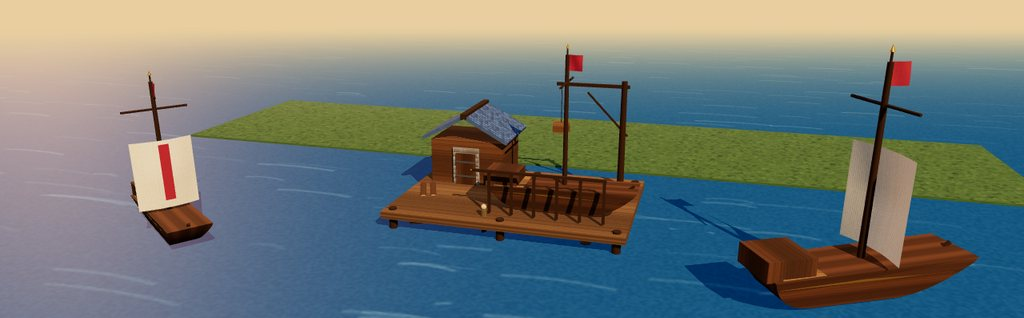
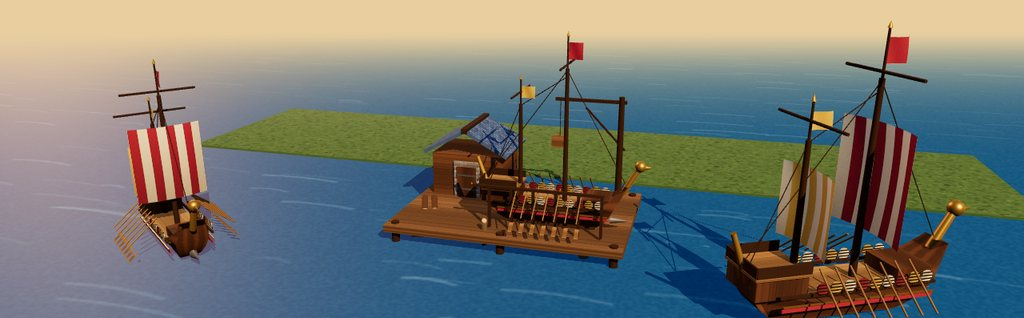
v0.42 fleet: new warship model, fleet and engagement scenes
Claude-Session: https://claude.ai/code/session_01Tp2ALq8jAJ99uCRVGCcdfx

diff --git a/tools/render/buildings.js b/tools/render/buildings.js
@@ -253,17 +253,59 @@ function hull(len, wid, hgt, mat) {
   const p = g.attributes.position; for (let i = 0; i < p.count; i++) { const y = p.getY(i); const k = 0.55 + 0.45 * (y / hgt); p.setZ(i, p.getZ(i) * Math.min(1, k)); }
   g.computeVertexNormals(); const m = new THREE.Mesh(g, mat); m.castShadow = m.receiveShadow = true; return m;
 }
+function hull2(len, wid, mat) {
+  // side profile: raised stern, low waist, high curved bow
+  const sh = new THREE.Shape();
+  sh.moveTo(-len / 2, 2.5); sh.quadraticCurveTo(-len / 2 + 1.4, 1.2, 0, 1.15); sh.quadraticCurveTo(len / 2 - 1.5, 1.35, len / 2, 3.0);
+  sh.lineTo(len / 2 - 0.35, 3.0); sh.quadraticCurveTo(len / 2 - 0.9, 0.5, len / 2 - 2.2, 0.05); sh.lineTo(-len / 2 + 2.0, 0.05); sh.quadraticCurveTo(-len / 2 + 0.2, 0.6, -len / 2, 2.5);
+  const g = new THREE.ExtrudeGeometry(sh, { depth: wid, bevelEnabled: false, steps: 1 }); g.translate(0, 0, -wid / 2);
+  const p = g.attributes.position; for (let i = 0; i < p.count; i++) { const y = p.getY(i), x = p.getX(i); const k = 0.38 + 0.62 * Math.min(1, y / 1.5); const end = 1 - 0.55 * Math.pow(Math.abs(x) / (len / 2), 3); p.setZ(i, p.getZ(i) * Math.min(1, k) * end); }
+  g.computeVertexNormals(); const m = new THREE.Mesh(g, mat); m.castShadow = m.receiveShadow = true; return m;
+}
 export function sailingShip(sails = true) {
   const g = new THREE.Group();
-  const hl = hull(8.4, 2.6, 1.6, M.wood([2, 1], 0x6b4528, false)); g.add(hl);
-  g.add(box(8.0, 0.14, 2.3, M.wood([2, 1], 0x9a7242, false), 0.2, 1.52, 0));
-  g.add(box(2.2, 0.9, 2.2, M.wood([1, 1], 0x5e3d22), -3.4, 1.55, 0));
-  g.add(box(8.2, 0.12, 0.08, M.gold(), 0.2, 1.2, 1.12), box(8.2, 0.12, 0.08, M.gold(), 0.2, 1.2, -1.12));
-  const mast = cyl(0.12, 0.16, 8.5, M.woodDark(), 0.6, 1.5, 0, 8); g.add(mast);
-  g.add(cyl(0.07, 0.07, 3.8, M.woodDark(), 0.6, 6.4, 0, 6)).children.at(-1).rotation.x = Math.PI / 2;
-  if (sails) { const sail = new THREE.Mesh(new THREE.PlaneGeometry(3.6, 4.4, 10, 8), M.cloth(0xe9e0c8)); sail.position.set(0.9, 4.2, 0); sail.rotation.y = Math.PI / 2; const p = sail.geometry.attributes.position; for (let i = 0; i < p.count; i++) p.setZ(i, 0.55 * Math.sin(((p.getX(i) / 3.6) + 0.5) * Math.PI) * (1 - Math.abs(p.getY(i)) / 5)); sail.geometry.computeVertexNormals(); sail.castShadow = true; g.add(sail); const cross = new THREE.Mesh(new THREE.PlaneGeometry(0.6, 3.6), M.cloth(0xa33440)); cross.position.set(1.5, 4.4, 0); cross.rotation.y = Math.PI / 2; g.add(cross); }
-  g.add(at(banner(0xa33440, 1.4), 0.6, 8.4, 0));
-  const bow = box(0.15, 1.6, 0.15, M.woodDark(), 4.4, 0.7, 0); bow.rotation.z = -0.9; g.add(bow);
+  const L = 9.6, W = 2.9;
+  const dark = M.woodDark(); const plank = M.wood([5, 1], 0x6b4528, false);
+  g.add(hull2(L, W, plank));
+  // painted strakes and gunwale
+  for (const s of [-1, 1]) {
+    g.add(box(L - 2.4, 0.16, 0.06, M.flat(0xa33440), 0.1, 0.95, s * 1.28));
+    g.add(box(L - 2.4, 0.07, 0.07, M.gold(), 0.1, 1.2, s * 1.36));
+    g.add(box(L - 2.2, 0.12, 0.12, dark, 0.0, 1.62, s * 1.34));
+  }
+  // deck, aft castle and fore deck
+  g.add(box(L - 3.0, 0.14, 2.3, M.wood([3, 1], 0xa07a48, false), -0.1, 1.45, 0));
+  g.add(box(2.4, 0.95, 2.3, M.wood([1, 1], 0x5e3d22), -3.5, 1.5, 0));
+  g.add(box(2.6, 0.12, 2.5, M.wood([1, 1], 0x9a7242, false), -3.5, 2.45, 0));
+  for (const s of [-1, 1]) { g.add(box(2.5, 0.5, 0.07, dark, -3.5, 2.55, s * 1.2)); }
+  g.add(box(0.08, 0.5, 2.4, dark, -4.75, 2.55, 0));
+  g.add(box(1.8, 0.7, 2.0, M.wood([1, 1], 0x5e3d22), 3.0, 1.5, 0));
+  // shields along the rails
+  for (let i = 0; i < 9; i++) for (const s of [-1, 1]) {
+    const sx = -1.8 + i * 0.62; const shield = new THREE.Mesh(new THREE.CylinderGeometry(0.28, 0.28, 0.06, 14), M.stripe([0xa33440, 0xd4ac4f, 0xede3cc][i % 3], 0x2a2018));
+    shield.rotation.x = Math.PI / 2; shield.position.set(sx, 1.95 + (Math.abs(sx) > 2 ? 0.05 : 0), s * 1.42); shield.castShadow = true; g.add(shield);
+  }
+  // oars
+  for (let i = 0; i < 7; i++) for (const s of [-1, 1]) {
+    const ang = -s * 0.88; const x = -2.1 + i * 0.7;
+    const oar = cyl(0.045, 0.045, 2.4, M.wood([1, 3], 0x9a7242), x, 0.93, s * 2.37, 6); oar.rotation.x = ang; g.add(oar);
+    const blade = box(0.26, 0.7, 0.04, M.wood([1, 1], 0x9a7242, false), x, 0.3, s * 3.14); blade.rotation.x = ang; g.add(blade);
+  }
+  // carved prow, gilded beak, bronze ram, stern post
+  const neck = cyl(0.17, 0.22, 1.9, M.gold(), 0, 0, 0, 8); neck.position.set(4.95, 3.35, 0); neck.rotation.z = -0.5; g.add(neck);
+  const head = new THREE.Mesh(new THREE.SphereGeometry(0.36, 10, 8), M.gold()); head.position.set(5.5, 4.35, 0); head.castShadow = true; g.add(head);
+  const snout = new THREE.Mesh(new THREE.ConeGeometry(0.2, 0.7, 8), M.gold()); snout.position.set(5.95, 4.3, 0); snout.rotation.z = -Math.PI / 2; g.add(snout);
+  const ram = new THREE.Mesh(new THREE.ConeGeometry(0.26, 1.2, 8), M.metal()); ram.position.set(4.35, 0.6, 0); ram.rotation.z = -Math.PI / 2; ram.castShadow = true; g.add(ram);
+  const stern = cyl(0.13, 0.17, 1.8, M.gold(), 0, 0, 0, 8); stern.position.set(-4.95, 3.3, 0); stern.rotation.z = 0.35; g.add(stern);
+  // masts, yards and bellied square sails
+  const mast = (x, h) => { g.add(cyl(0.12, 0.17, h, dark, x, 1.5, 0, 8)); const y = cyl(0.07, 0.07, 4.4, dark, x, 1.5 + h * 0.78, 0, 6); y.rotation.x = Math.PI / 2; g.add(y); return y; };
+  mast(0.7, 8.8); mast(-2.3, 6.4);
+  const sail = (x, h, w, y0, c1, c2) => { const sl = new THREE.Mesh(new THREE.PlaneGeometry(w, h, 10, 8), M.stripe(c1, c2)); sl.rotation.y = Math.PI / 2; sl.position.set(x + 0.15, y0 + h / 2, 0); const p = sl.geometry.attributes.position; for (let i = 0; i < p.count; i++) { const u = p.getX(i) / (w / 2), v = p.getY(i) / (h / 2); p.setZ(i, 0.55 * (1 - u * u) * (1 - 0.3 * v * v)); } sl.geometry.computeVertexNormals(); sl.castShadow = true; sl.material = sl.material.clone(); sl.material.side = THREE.DoubleSide; return sl; };
+  if (sails) { g.add(sail(0.7, 4.8, 4.2, 3.6, 0xa33440, 0xede3cc)); g.add(sail(-2.3, 3.4, 3.4, 3.2, 0xd4ac4f, 0xede3cc)); }
+  // rigging
+  const line = (x1, y1, x2, y2) => { const dx = x2 - x1, dy = y2 - y1; const l = cyl(0.025, 0.025, Math.hypot(dx, dy), dark, (x1 + x2) / 2, 0, 0, 4); l.position.y = (y1 + y2) / 2; l.rotation.z = -Math.atan2(dx, dy); return l; };
+  g.add(line(0.7, 10.2, 4.6, 3.1), line(0.7, 10.2, -4.6, 2.9), line(-2.3, 7.8, 0.7, 9.8), line(-2.3, 7.8, -4.4, 2.6));
+  g.add(at(banner(0xa33440, 1.5), 0.7, 10.2, 0), at(banner(0xd4ac4f, 1.1), -2.3, 7.8, 0));
   return g;
 }
 export function shipyard() {

diff --git a/src/components/art/FleetScene.tsx b/src/components/art/FleetScene.tsx
@@ -1,0 +1,72 @@
+import { useState } from 'react';
+import { Image, StyleSheet, Text, View } from 'react-native';
+
+import { Bob } from '@/components/art/TownLife';
+import { BANNERS } from '@/data/bannerArt';
+import { TOWN_SPRITES } from '@/data/townAssets';
+import { colors, fonts } from '@/theme';
+
+/** Where each ship rides in formation, as fractions of the scene (x of width, y of height). */
+const FORMATION: [number, number][] = [[0.5, 0.64], [0.27, 0.46], [0.73, 0.46], [0.1, 0.7], [0.9, 0.7], [0.37, 0.86], [0.63, 0.86], [0.5, 0.28]];
+
+/** Your warships at sea, drawn from the rendered ship model. Up to eight show; more are only counted. */
+export function FleetScene({ ships, building }: { ships: number; building: number }) {
+  const [w, setW] = useState(360);
+  const h = Math.max(190, w * 0.5);
+  const sp = TOWN_SPRITES.ship;
+  const k = Math.min(0.62, w / 620);
+  const shown = Math.min(FORMATION.length, ships);
+  const order = FORMATION.slice(0, shown).map((f, i) => ({ f, i })).sort((a, b) => a.f[1] - b.f[1]);
+  return (
+    <View style={[styles.frame, { height: h }]} onLayout={(e) => setW(e.nativeEvent.layout.width)}>
+      <Image source={BANNERS.sea} style={StyleSheet.absoluteFill} resizeMode="cover" accessibilityIgnoresInvertColors />
+      {order.map(({ f, i }) => (
+        <View key={i} style={{ position: 'absolute', left: f[0] * w - sp.ax * k, top: f[1] * h - sp.ay * k, width: sp.w * k, height: sp.h * k, zIndex: Math.round(f[1] * 100) }}>
+          <Bob phase={(i % 4) * 450}>
+            <Image source={sp.src} style={{ width: sp.w * k, height: sp.h * k }} accessibilityIgnoresInvertColors />
+          </Bob>
+        </View>
+      ))}
+      <View style={styles.cap} pointerEvents="none">
+        <Text style={styles.title}>{ships === 0 ? 'No ships yet' : `${ships} warship${ships === 1 ? '' : 's'} at sea`}</Text>
+        <Text style={styles.sub}>{building > 0 ? `${building} more on the slipway` : ships === 0 ? 'Build ships to command the waves' : 'Your fleet rides at anchor'}</Text>
+      </View>
+    </View>
+  );
+}
+
+const styles = StyleSheet.create({
+  frame: { borderRadius: 12, overflow: 'hidden', borderWidth: 1.5, borderColor: colors.gold, backgroundColor: '#1f5b8c' },
+  cap: { position: 'absolute', left: 0, right: 0, bottom: 0, paddingHorizontal: 12, paddingVertical: 8, backgroundColor: 'rgba(11,18,32,0.72)', zIndex: 999 },
+  title: { fontFamily: fonts.serif, fontSize: 17, fontWeight: '800', color: colors.goldBright },
+  sub: { fontFamily: fonts.sans, fontSize: 12, color: colors.parchment },
+});
+
+/** The two fleets of a finished sea battle: yours on the left, theirs mirrored on the right. Sunk ships fade and tilt. */
+export function EngagementScene({ mine, myLost, theirs, theirLost }: { mine: number; myLost: number; theirs: number; theirLost: number }) {
+  const [w, setW] = useState(360);
+  const h = Math.max(150, w * 0.4);
+  const sp = TOWN_SPRITES.ship;
+  const k = Math.min(0.5, w / 760);
+  const side = (n: number, lost: number, left: boolean) =>
+    Array.from({ length: Math.min(4, n) }, (_, i) => {
+      const x = left ? 0.12 + (i % 2) * 0.17 : 0.88 - (i % 2) * 0.17;
+      const y = 0.38 + Math.floor(i / 2) * 0.32 + (i % 2) * 0.08;
+      const sunk = i >= Math.min(4, n) - Math.round((lost / Math.max(1, n)) * Math.min(4, n));
+      return { x, y, sunk, left, key: `${left ? 'a' : 'b'}${i}` };
+    });
+  const all = [...side(mine, myLost, true), ...side(theirs, theirLost, false)].sort((a, b) => a.y - b.y);
+  return (
+    <View style={[styles.frame, { height: h, marginBottom: 8 }]} onLayout={(e) => setW(e.nativeEvent.layout.width)}>
+      <Image source={BANNERS.sea} style={StyleSheet.absoluteFill} resizeMode="cover" accessibilityIgnoresInvertColors />
+      {all.map((s) => (
+        <View key={s.key} style={{ position: 'absolute', left: s.x * w - sp.ax * k, top: s.y * h - sp.ay * k, width: sp.w * k, height: sp.h * k, opacity: s.sunk ? 0.3 : 1, transform: [{ scaleX: s.left ? 1 : -1 }, { rotate: s.sunk ? '18deg' : '0deg' }], zIndex: Math.round(s.y * 100) }}>
+          <Image source={sp.src} style={{ width: sp.w * k, height: sp.h * k }} accessibilityIgnoresInvertColors />
+        </View>
+      ))}
+      <View style={styles.cap} pointerEvents="none">
+        <Text style={styles.sub}>You {mine - myLost} of {mine} afloat · Them {theirs - theirLost} of {theirs} afloat</Text>
+      </View>
+    </View>
+  );
+}

diff --git a/tools/render/hero.html b/tools/render/hero.html
@@ -17,9 +17,9 @@ scene.add(new THREE.HemisphereLight(0xcfd8ee, 0x6a5a40, 1.4));
 const sun = new THREE.DirectionalLight(0xffd29a, 3.6); sun.position.set(12, 14, 14); sun.castShadow = true; sun.shadow.mapSize.set(4096, 4096);
 const s = sun.shadow.camera; s.left = -20; s.right = 20; s.top = 20; s.bottom = -20; s.far = 90; sun.shadow.bias = -0.0004; scene.add(sun);
 const rim = new THREE.DirectionalLight(0xffb98a, 1.0); rim.position.set(-10, 6, -8); scene.add(rim);
-const water = name === 'shipyard' || name === 'b_map';
-const ground = new THREE.Mesh(new THREE.PlaneGeometry(700, 700), water ? (() => { const m = M.water().clone(); m.roughness = 0.6; m.metalness = 0; return m; })() : M.ground([120, 120])); ground.rotation.x = -Math.PI / 2; ground.position.y = water ? (name === 'b_map' ? -0.15 : -0.35) : -0.02; ground.receiveShadow = true; scene.add(ground);
-if (water) { const bank = new THREE.Mesh(new THREE.BoxGeometry(60, 1, 14), M.ground([8, 2])); bank.position.set(0, -0.5, -16); bank.receiveShadow = true; scene.add(bank); }
+const water = name === 'shipyard' || name === 'ship' || name === 'b_map' || name === 'b_navy' || name === 'b_sea';
+const ground = new THREE.Mesh(new THREE.PlaneGeometry(700, 700), water ? (() => { const m = M.water().clone(); m.roughness = 0.6; m.metalness = 0; return m; })() : M.ground([120, 120])); ground.rotation.x = -Math.PI / 2; ground.position.y = water ? (name.startsWith('b_') ? -0.15 : -0.35) : -0.02; ground.receiveShadow = true; scene.add(ground);
+if (water && name !== 'b_navy' && name !== 'b_sea') { const bank = new THREE.Mesh(new THREE.BoxGeometry(60, 1, 14), M.ground([8, 2])); bank.position.set(0, -0.5, -16); bank.receiveShadow = true; scene.add(bank); }
 else { const path = new THREE.Mesh(new THREE.PlaneGeometry(4, 60), M.dirt([1, 12])); path.rotation.x = -Math.PI / 2; path.position.set(0, 0.01, 18); path.receiveShadow = true; scene.add(path); }
 import('./lib.js').then(()=>{});
 const BANNERS = {
@@ -27,6 +27,8 @@ const BANNERS = {
   b_economy: [[market, 0, 2, 0, 1], [workshop, -15, -1, 0.3, 1], [farm, 17, -1, -0.2, 1], [timber, 33, 0, -0.4, 0.9]],
   b_knowledge: [[library, -2, 0, 0, 1], [academy, 17, 0, -0.2, 1], [bureau, -18, 0, 0.3, 1]],
   b_military: [[barracks, -4, 0, 0.3, 0.9], [armoury, 16, 0, -0.3, 1], [() => regiment('spearmen', 'p'), -6, 15, 0, 0.6]],
+  b_navy: [[() => sailingShip(true), 0, 2, 0.15, 1.15], [() => sailingShip(true), -14, -6, 0.05, 1.0], [() => sailingShip(true), 14, -7, 0.25, 1.0], [() => sailingShip(true), -26, -14, 0.1, 0.9], [() => sailingShip(true), 27, -15, 0.2, 0.9]],
+  b_sea: [[() => { const g = new THREE.Group(); const m = new THREE.Mesh(new THREE.BoxGeometry(46, 0.1, 6), new THREE.MeshBasicMaterial({ visible: false })); m.position.y = -2; g.add(m); return g; }, 0, 0, 0, 1]],
   b_map: [[shipyard, 0, 0, 0, 1], [() => sailingShip(true), 16, 6, 0.5, 1.0], [() => sailingShip(true), -17, 8, -0.6, 0.8]],
 };
 if (BANNERS[name]) {
@@ -37,7 +39,7 @@ if (BANNERS[name]) {
   cam2.position.set(cc.x + Math.sin(0.28) * dist, cc.y + dist * 0.28, cc.z + Math.cos(0.28) * dist); cam2.lookAt(cc.x, cc.y - sz.y * 0.05, cc.z);
   renderer.render(scene, cam2); window.done = true;
 } else {
-const obj = { barracks, library, academy, armoury, bureau, shipyard, farm, timber, quarry, workshop, market }[name](); scene.add(obj);
+const obj = { ship: () => sailingShip(true), barracks, library, academy, armoury, bureau, shipyard, farm, timber, quarry, workshop, market }[name](); scene.add(obj);
 const box = new THREE.Box3().setFromObject(obj); const c = box.getCenter(new THREE.Vector3()); const size = box.getSize(new THREE.Vector3());
 const cam = new THREE.PerspectiveCamera(32, W / H, 0.5, 300);
 const rad = box.getBoundingSphere(new THREE.Sphere()).radius; const dist = rad / Math.sin(THREE.MathUtils.degToRad(32 / 2)) * Number(q.get('k') || 0.82);

diff --git a/src/components/military/NavyTab.tsx b/src/components/military/NavyTab.tsx
@@ -1,6 +1,7 @@
 import { useState } from 'react';
 import { Alert, StyleSheet, Text, View } from 'react-native';
 
+import { EngagementScene, FleetScene } from '@/components/art/FleetScene';
 import { Chip } from '@/components/ui/Chip';
 import { GameButton } from '@/components/ui/GameButton';
 import { LockedNotice } from '@/components/ui/LockedNotice';
@@ -40,6 +41,7 @@ export function NavyTab({ state }: { state: GameState }) {
 
   return (
     <>
+      <FleetScene ships={state.fleet.ships} building={pendingShips(state)} />
       <Panel>
         <Text style={styles.title}>
           Fleet: {state.fleet.ships} warship{state.fleet.ships === 1 ? '' : 's'} (capacity {cap})
@@ -117,6 +119,7 @@ export function NavyTab({ state }: { state: GameState }) {
         <>
           <SectionHeader title="Last engagement" />
           <Panel>
+            <EngagementScene mine={last.shipsBefore} myLost={last.shipsLost} theirs={last.enemyBefore} theirLost={last.enemyLost} />
             <Chip tone={last.won ? 'gold' : 'burgundy'} label={`${last.won ? 'Victory' : 'Defeat'} against ${last.rivalName}`} />
             <Text style={styles.meta}>
               Ships lost {last.shipsLost} of {last.shipsBefore} · Enemy lost {last.enemyLost} of {last.enemyBefore}

diff --git a/src/data/townAssets.ts b/src/data/townAssets.ts
@@ -19,7 +19,7 @@ export const TOWN_SPRITES: Record<string, TownSprite> = {
   library: { src: require('../../assets/town/library.png'), w: 409, h: 360, ax: 225.0, ay: 228.0 },
   market: { src: require('../../assets/town/market.png'), w: 347, h: 232, ax: 199.8, ay: 138.6 },
   quarry: { src: require('../../assets/town/quarry.png'), w: 437, h: 303, ax: 258.0, ay: 196.2 },
-  ship: { src: require('../../assets/town/ship.png'), w: 230, h: 233, ax: 117.6, ay: 190.2 },
+  ship: { src: require('../../assets/town/ship.png'), w: 264, h: 278, ax: 157.2, ay: 223.8 },
   shipyard: { src: require('../../assets/town/shipyard.png'), w: 382, h: 331, ax: 195.0, ay: 191.4 },
   timber: { src: require('../../assets/town/timber.png'), w: 459, h: 415, ax: 229.8, ay: 272.4 },
   workshop: { src: require('../../assets/town/workshop.png'), w: 293, h: 295, ax: 166.8, ay: 216.6 },

diff --git a/src/app/settings.tsx b/src/app/settings.tsx
@@ -110,7 +110,7 @@ export default function SettingsScreen() {
       <SectionHeader title="Danger zone" />
       <GameButton label="Delete saved game" variant="danger" muted={!hasSave} onPress={() => (hasSave ? confirmDelete() : Alert.alert('Nothing to delete', 'There is no saved game.'))} />
 
-      <Text style={styles.footer}>WAR EMPIRE · Version 0.41 (Command Window)</Text>
+      <Text style={styles.footer}>WAR EMPIRE · Version 0.42 (Fleet)</Text>
     </PlainScreen>
   );
 }

diff --git a/src/app/index.tsx b/src/app/index.tsx
@@ -58,7 +58,7 @@ export default function TitleScreen() {
             <GameButton label="Settings" variant="secondary" onPress={() => router.push('/settings')} />
           </View>
 
-          <Text style={styles.footer}>{ready ? 'Version 0.41' : 'Loading…'}</Text>
+          <Text style={styles.footer}>{ready ? 'Version 0.42' : 'Loading…'}</Text>
         </Animated.View>
       </SafeAreaView>
     </View>

diff --git a/src/data/bannerArt.ts b/src/data/bannerArt.ts
@@ -7,5 +7,7 @@ export const BANNERS = {
   knowledge: require('../../assets/banners/knowledge.jpg'),
   military: require('../../assets/banners/military.jpg'),
   map: require('../../assets/banners/map.jpg'),
+  navy: require('../../assets/banners/navy.jpg'),
+  sea: require('../../assets/banners/sea.jpg'),
 } satisfies Record<string, ImageSourcePropType>;
 export type BannerKey = keyof typeof BANNERS;

diff --git a/DEVLOG.md b/DEVLOG.md
@@ -331,3 +331,7 @@ Known notes:
 ## v0.41 — Command Window
 - Battle orders are a grid of icon tiles directly under the battlefield (locked doctrines show a padlock). Tap a tile to read its summary and checks, then confirm with the big Order button, so you no longer scroll past army and enemy panels to give an order.
 - Battle deployment, Marketplace and Profile now open with rendered banners.
+
+## v0.42 — Fleet
+- New warship model (`sailingShip` in tools/render/buildings.js): curved hull with raised bow and stern, gilded prow, bronze ram, shield-lined rails, oars, two masts with bellied striped sails and rigging. Re-rendered the town ship and shipyard sprites and the Shipyard card, map banner.
+- Navy tab opens with a FleetScene: your ships riding on a rendered sea (up to eight, bobbing), plus an EngagementScene in "Last engagement" showing both fleets with the sunk ships faded.
